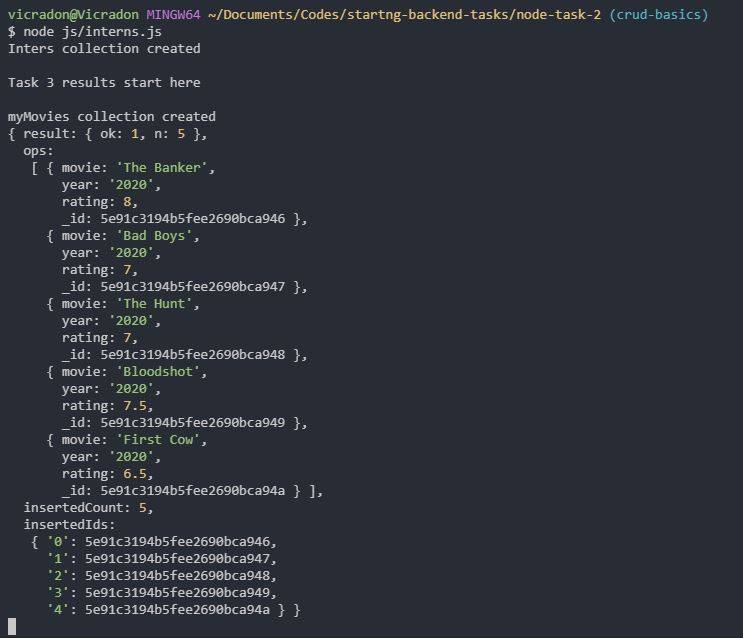
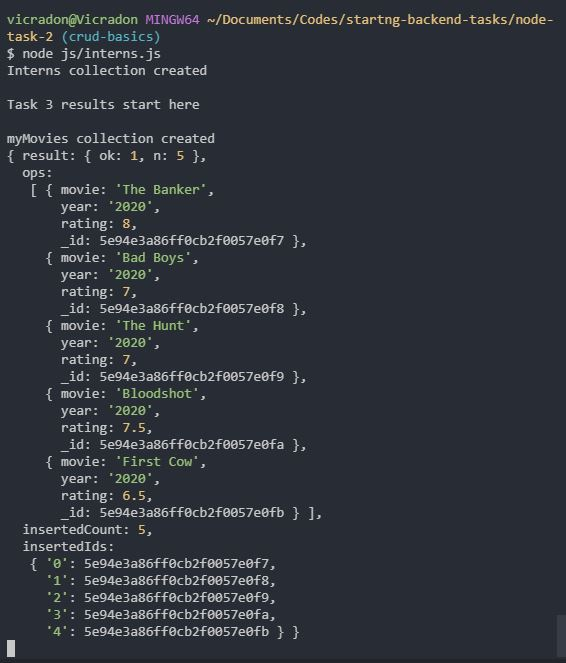
Completed task 3

Changed region(s): [[0.0, 0.0, 0.9611, 0.9828], [0.0, 0.953, 0.03, 1.0], [0.5406, 0.7743, 0.5707, 0.8041]]

diff --git a/node-basics/js/findInterns.js b/node-basics/js/findInterns.js
@@ -20,7 +20,7 @@ const mongo = mongo_client.connect(url, { useNewUrlParser: true, useUnifiedTopol
     console.log(items)
   });
 
-  myMovies.find({}, { 'movie': 1, 'year': 0, 'rating': 0, '_id': 0 }).toArray((err, items) => {
+  myMovies.find({}, { projection: { "movie": 1, "_id": 0 } }).toArray((err, items) => {
     console.log("\n\nMovie titles only")
     if (err) throw err;
     console.log(items)

diff --git a/node-basics/js/interns.js b/node-basics/js/interns.js
@@ -9,7 +9,7 @@ const mongo = mongo_client.connect(url, { useNewUrlParser: true, useUnifiedTopol
 
   const collection = db.collection('interns');
 
-  console.log("Inters collection created\n")
+  console.log("Interns collection created\n")
 
   collection.insertOne({ name: "Osinachi" }, (err, result) => {
     if (err) throw err;

diff --git a/node-basics/js/updateInterns.js b/node-basics/js/updateInterns.js
@@ -9,7 +9,7 @@ const mongo = mongo_client.connect(url, { useNewUrlParser: true, useUnifiedTopol
   const myMovies = db.collection('myMovies');
 
   myMovies.findOneAndUpdate(
-    { movie: 'The Banker' },
+    { movie: 'The Banker', year: '2020', rating: 8 },
     {
       $set: {
         movie: "Lucy",

diff --git a/node-basics/image.md b/node-basics/image.md
@@ -2,3 +2,14 @@
 
 ### myMovies collection creation successful
 ![mongo and mongod](/images/myMoviesCollectionCreationSuccessful.jpg)
+
+
+### Quering movie collection
+![mongo and mongod](/images/quering-movie-collection.jpg)
+
+### update movie collection
+![mongo and mongod](/images/update-movie-collection.jpg)
+
+### current documents in movie collection
+![mongo and mongod](/images/current-documents.jpg)
+
